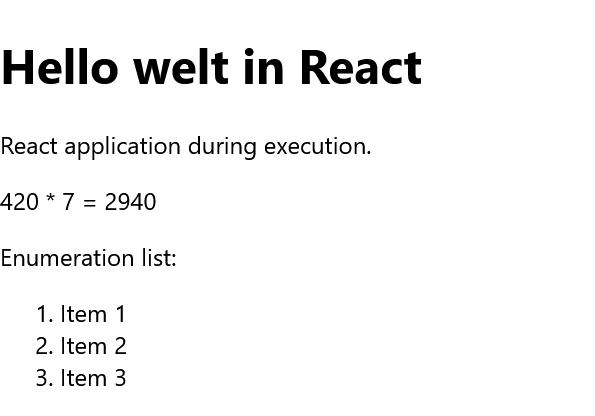
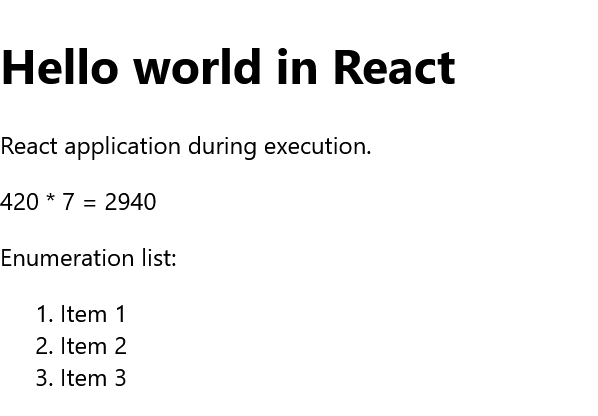
UD ch.5.3. ; part_4

diff --git a/Examples/Part_4/App.js b/Examples/Part_4/App.js
@@ -1,0 +1,24 @@
+import React from 'react';
+
+const header_1 = true;
+const mark = true;
+
+function isImportant() {
+    return mark;
+}
+
+function isHeader() {
+    return header_1;
+}
+const msg = <p style = {{ color: isImportant() ? "green" : "black" }} >
+    Welcome to React </p>;
+
+function App() {
+    return ( 
+      <div > 
+        { isHeader() ? <h1> { msg } </h1> : <p>{msg}</p> } 
+      </div>
+    );
+}
+export default App;
+

diff --git a/Examples/Part_2/App.js b/Examples/Part_2/App.js
@@ -1,6 +1,6 @@
 import React from 'react';
 
-const greetings = 'Hello welt';
+const greetings = 'Hello world';
 const title = 'React';
 const ptext = <p> React application during execution. </p>;
 const expression = <p> 420 * 7 = { 420 * 7 } </p>;

diff --git a/README.md b/README.md
@@ -10,8 +10,10 @@
  3. Start a React project
  4. "Hello World" in React
  5. JSX (JavaScript XML)
-   - 5.1. Use JSX for the UI
-   - 5.2. JSX with HTML attributes
+    - 5.1. Use JSX for the UI
+    - 5.2. JSX with HTML attributes
+    - 5.3. Case distinction
+    - 5.4. Lists with React
 
  
  
@@ -210,7 +212,7 @@ Here is a simple example of how flexibly JSX can be used:
   ```
    import React from 'react';
 
-   const greetings = 'Hello welt';
+   const greetings = 'Hello world';
    const title = 'React';
    const ptext = <p> React application during execution. </p>;
    const expression = <p> 420 * 7 = { 420 * 7 } </p>;
@@ -288,3 +290,86 @@ With the line `<h1> { format_header_1('Welcome', user) } </h1>`, a JavaScript ex
 
 
 ### 5.2. JSX with HTML attributes
+HTML attributes can also be enclosed in curly brackets:
+
+  ```
+   const primaryColor = "#008000";
+   const parapraph = <p style = {{color: primaryColor}}> Welcome to React </p>
+  ```
+
+Here, a JavaScript expression has been integrated into an HTML attribute. In JSX, the camel case notation is used, so instead of *tabindex*, as is usual in HTML, *tabIndex* must be used. The attributes `for` and `class` must not be used because these are also keywords in JavaScript. Instead, `htmlFor` and `className` must be used. 
+
+Stand-alone HTML tags must be closed with `/` (`<.../>`), as JSX follows the XML rules:
+
+  ```
+   const userInput = < input type = "text" />;
+  ```
+
+If stand-alone HTML tags are not closed correctly or if `for` is used instead of `htmlFor` out of habit, React issues an error message.
+
+#### Comments in JSX
+Comments can be noted between the curly brackets in a JavaScript expression:
+
+  ```
+   const parapraph = <p> Welcome {/*comment name*/} </p>
+  ```
+
+or within a JSX element, the comments can be noted without curly brackets:
+
+  ```
+   const parapraph = <p /*comment set color */> Welcome </p>
+  ```
+
+or comments can be noted as in JavaScript, but only at the end of the line:
+
+  ```
+   const parapraph = <p //comment set color > Welcome </p>
+  ```
+
+
+### 5.3. Case distinction
+`if-else` cannot be used within JSX. The tenary operator `?:` (`{i === 1?`true`:`false`}`) can be used for this purpose. A case distinction can be useful if an attribute or element is to be set depending on the condition.
+
+Example: [Complete Code](https://github.com/BellaMrx/Basics_of_React/tree/main/Examples/Part_4) --> **Examples/Part_4/...** 
+
+  ```
+   import React from 'react';
+
+   const header_1 = true;
+
+   function isHeader() {
+      return header_1;
+   }
+   const msg = "Welcome to React";
+
+   function App() {
+      return ( 
+         <div > 
+         { isHeader() ? <h1> { msg } </h1> : <p>{msg}</p> } 
+         </div>
+      );
+   }
+   export default App;
+  ```
+
+Whether the text of the variable `msg` is displayed as `h1` heading or as `p` paragraph text depends on whether the function `isHeader()` returns `true` or `false`. This works not only for HTML elements, but also for attributes:
+
+  ```
+   const mark = true;
+
+   function isImportant() {
+      return mark;
+   }
+
+   const msg = <p style = {{ color: isImportant() ? "green" : "black" }} >
+      Welcome to React </p>; 
+  ```
+
+ <img src="images/React_part_4.png" width="400">
+
+
+### 5.4. Lists with React
+
+
+
+
